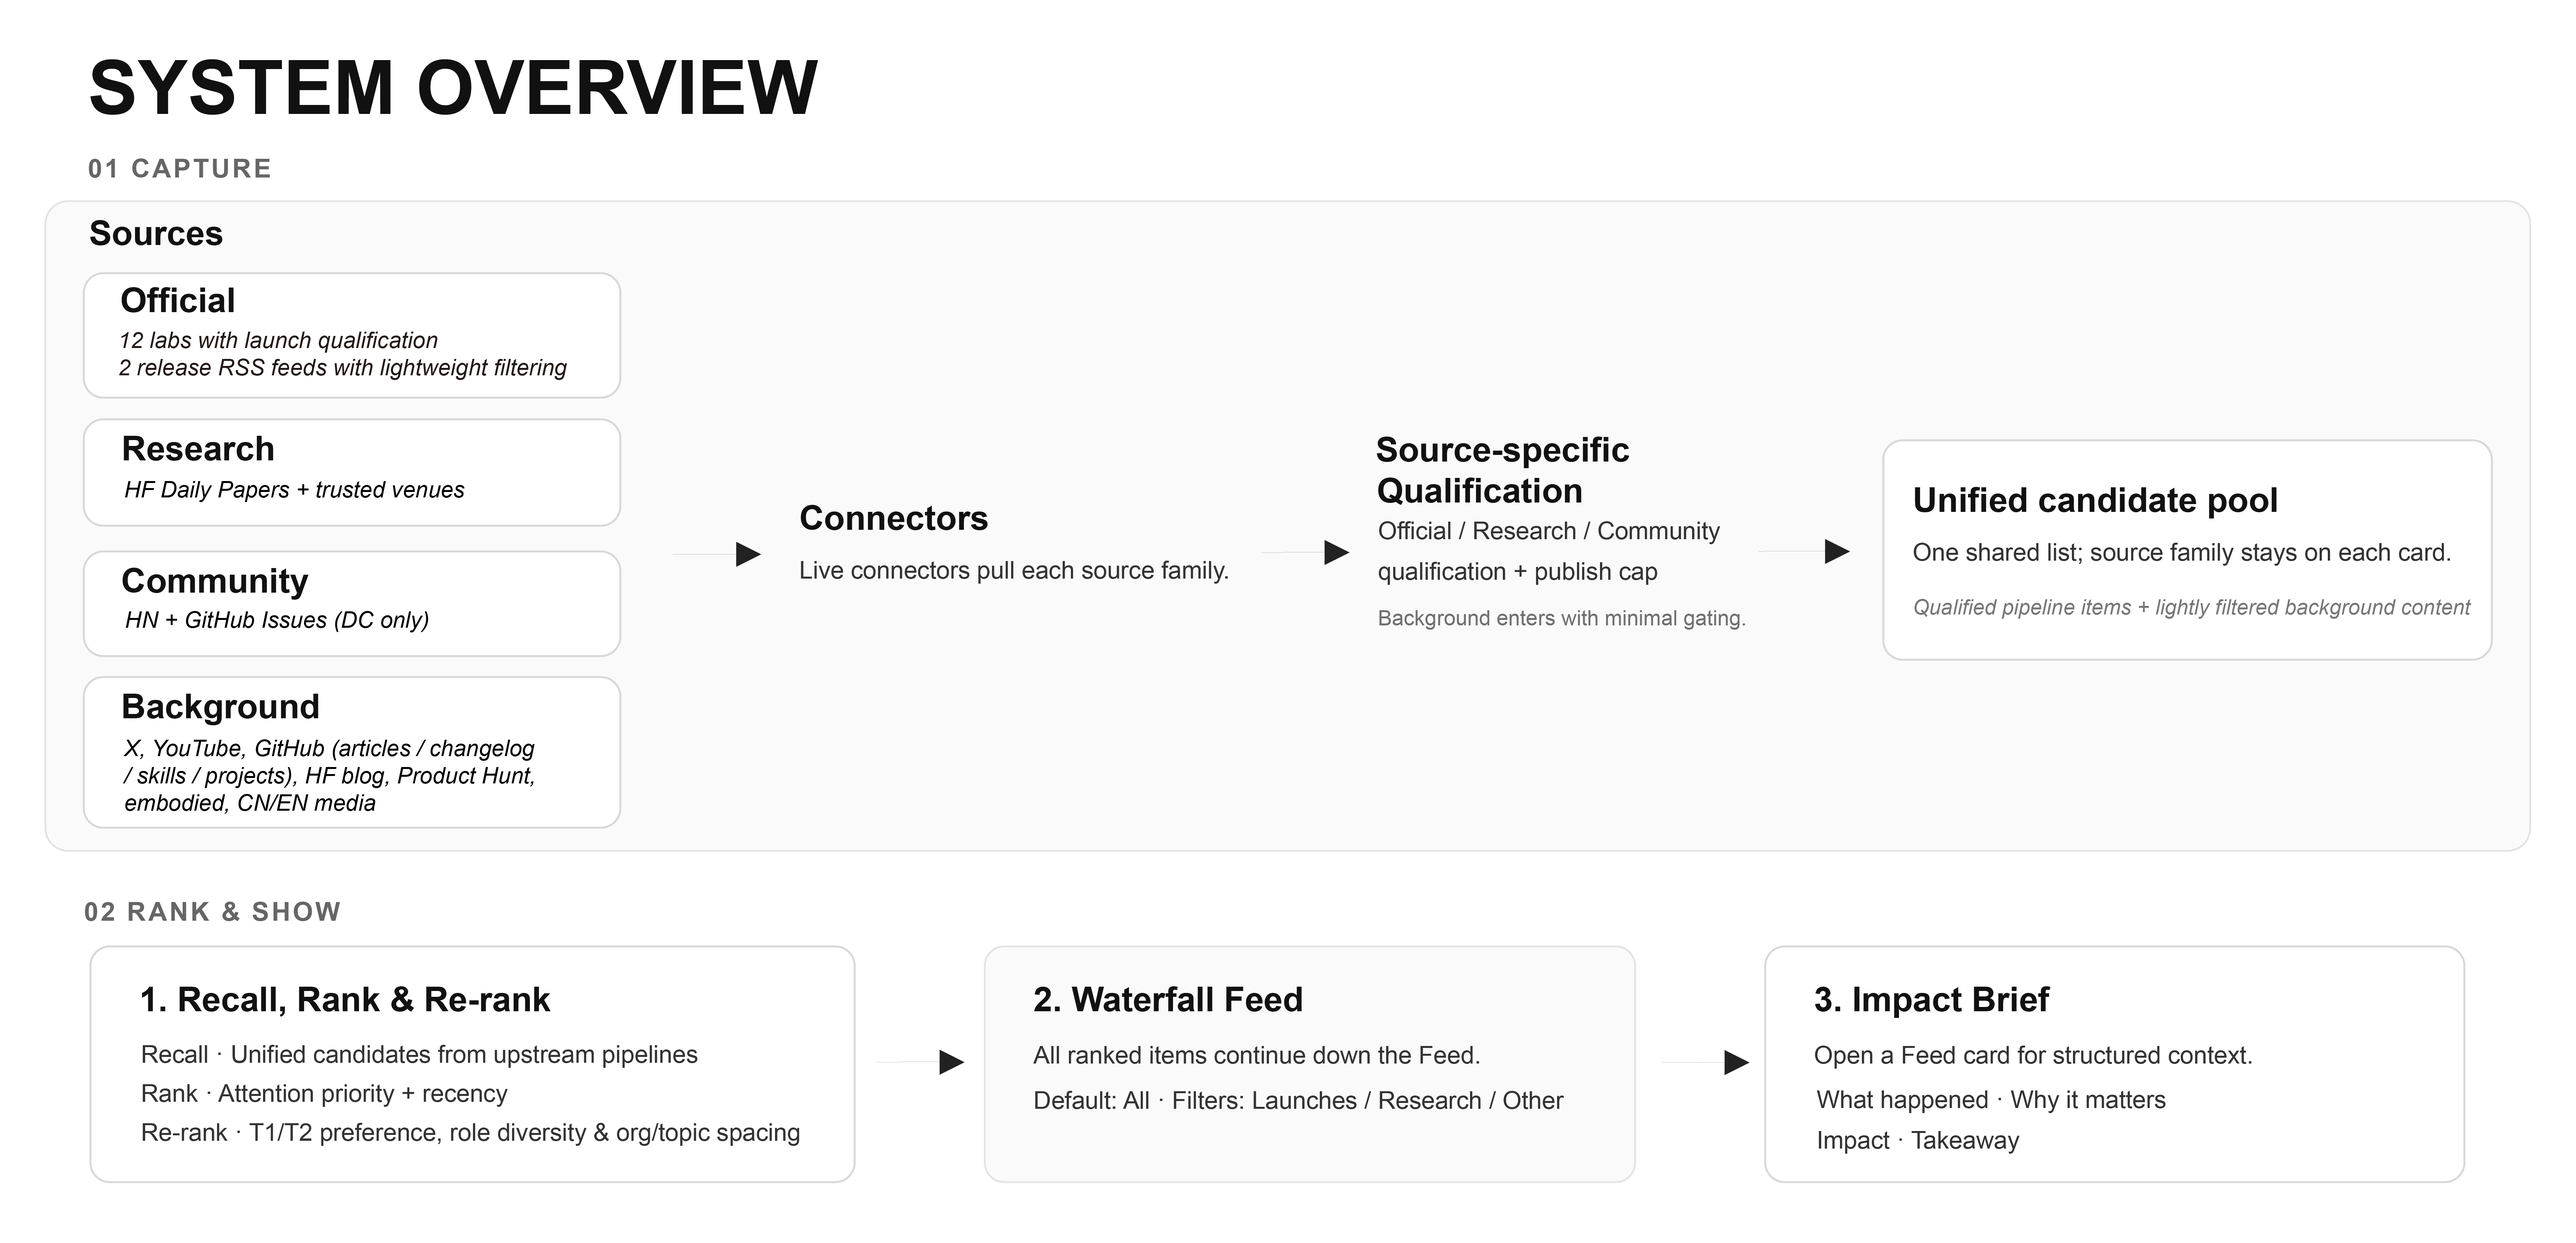
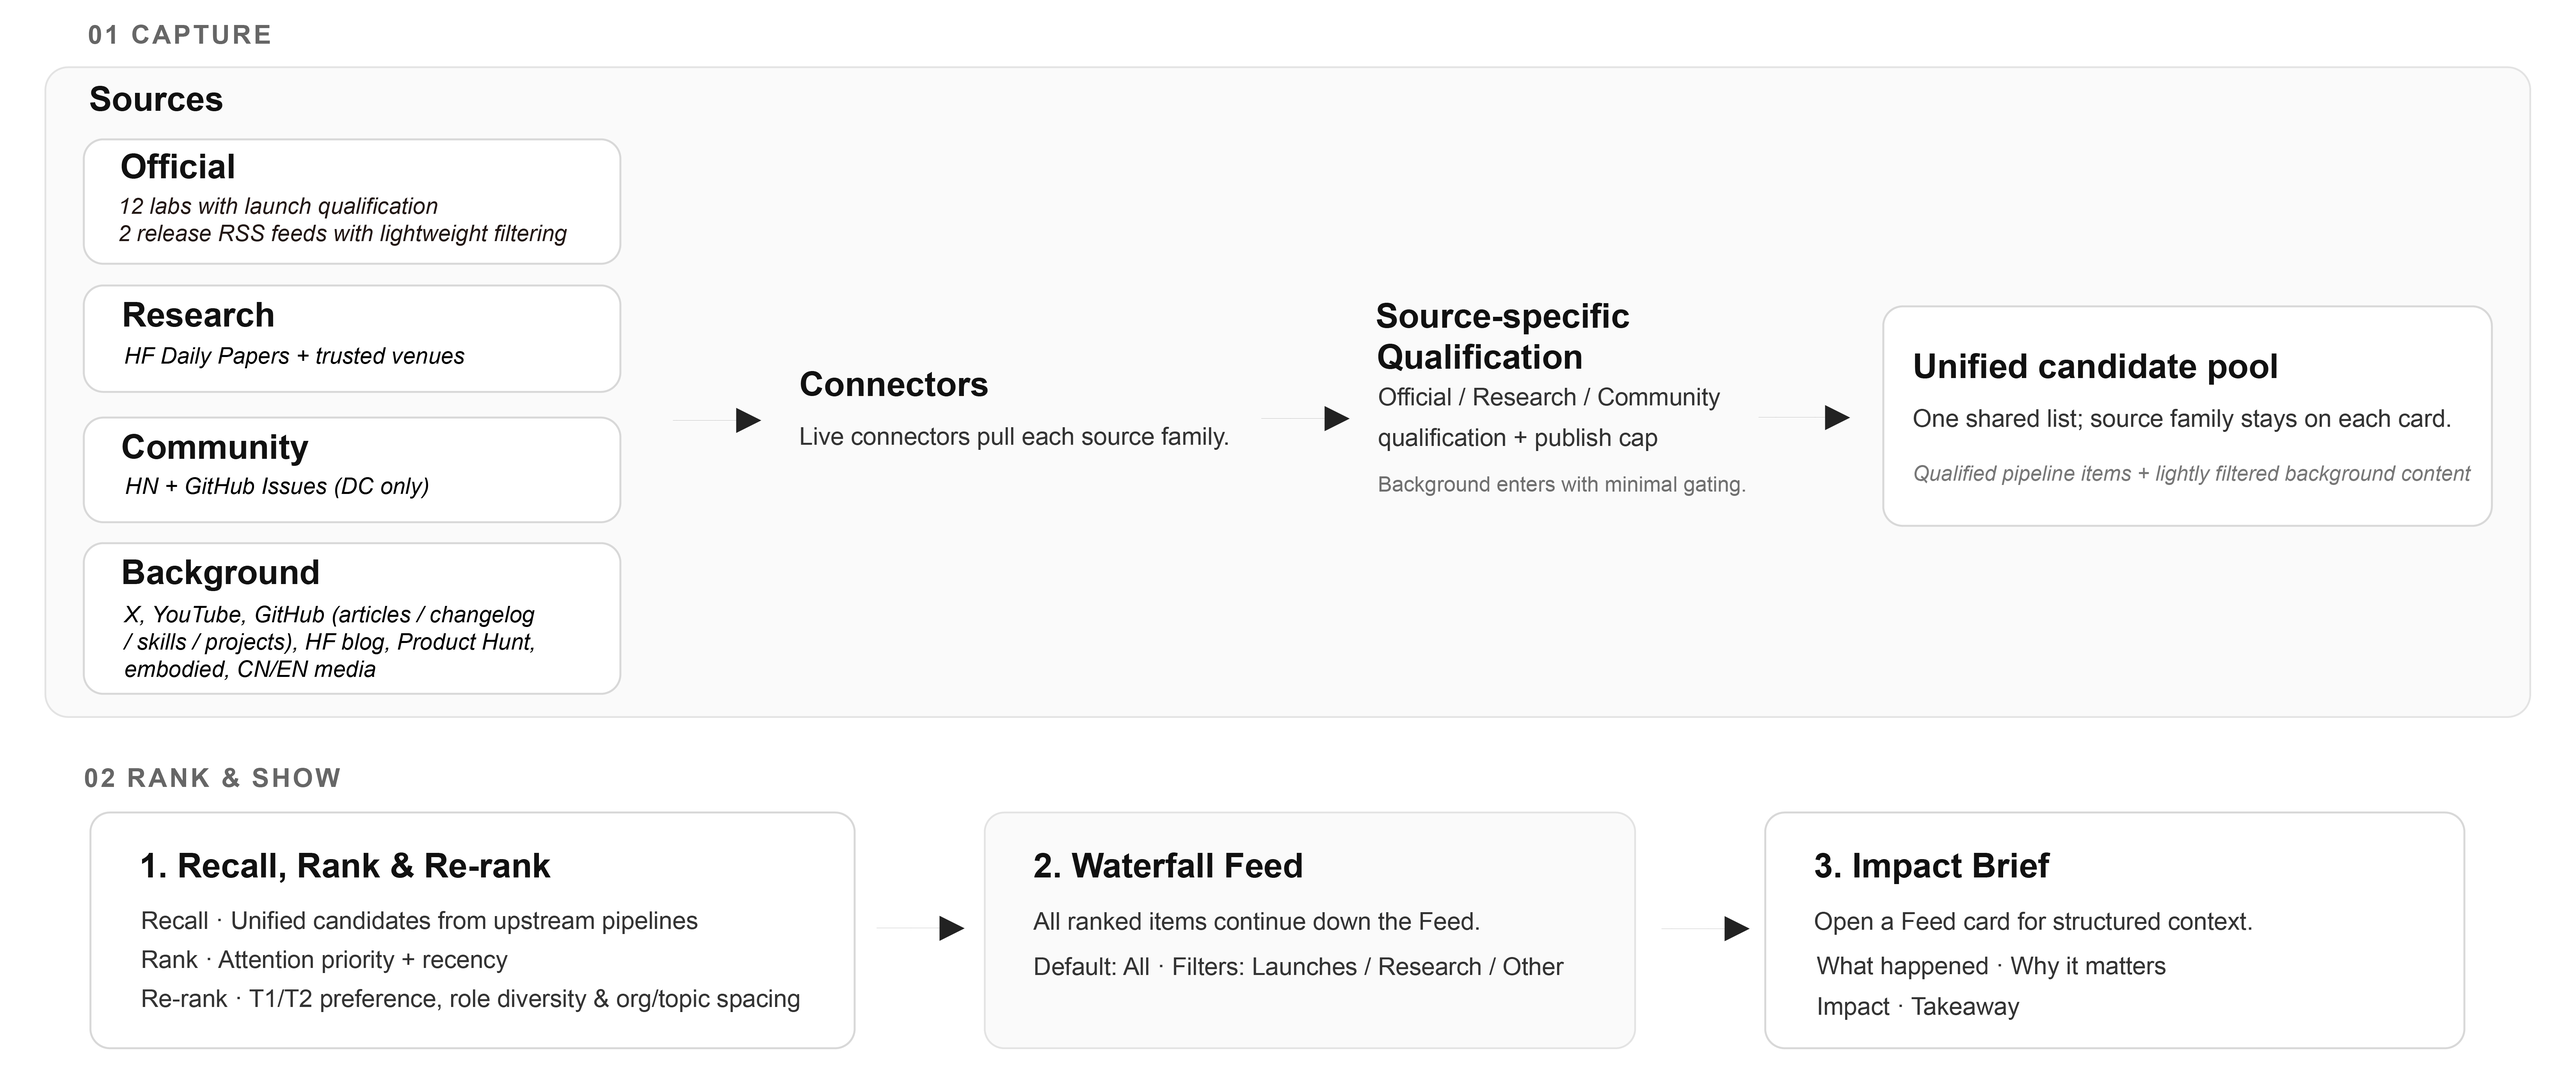
Refresh Signal source-strategy and system-overview figures.

diff --git a/src/components/project/content/SignalContent.jsx b/src/components/project/content/SignalContent.jsx
@@ -23,7 +23,7 @@ const IMAGES = [
     src: '/assets/Signal/signal_source_strategy.png',
     alt: 'Source strategy — why Official, Research, and Developer families, and what evidence each requires',
     caption:
-      'Figure 3 — Source strategy: Official, Research, and Developer families, each with a why, a selection rule, and the evidence it must show before entering the feed.',
+      'Figure 3 — Source lists define where to look; content-level evidence and relevance determine what enters the feed.',
   },
   {
     src: '/assets/Signal/signal_multi_source_capture.png',
